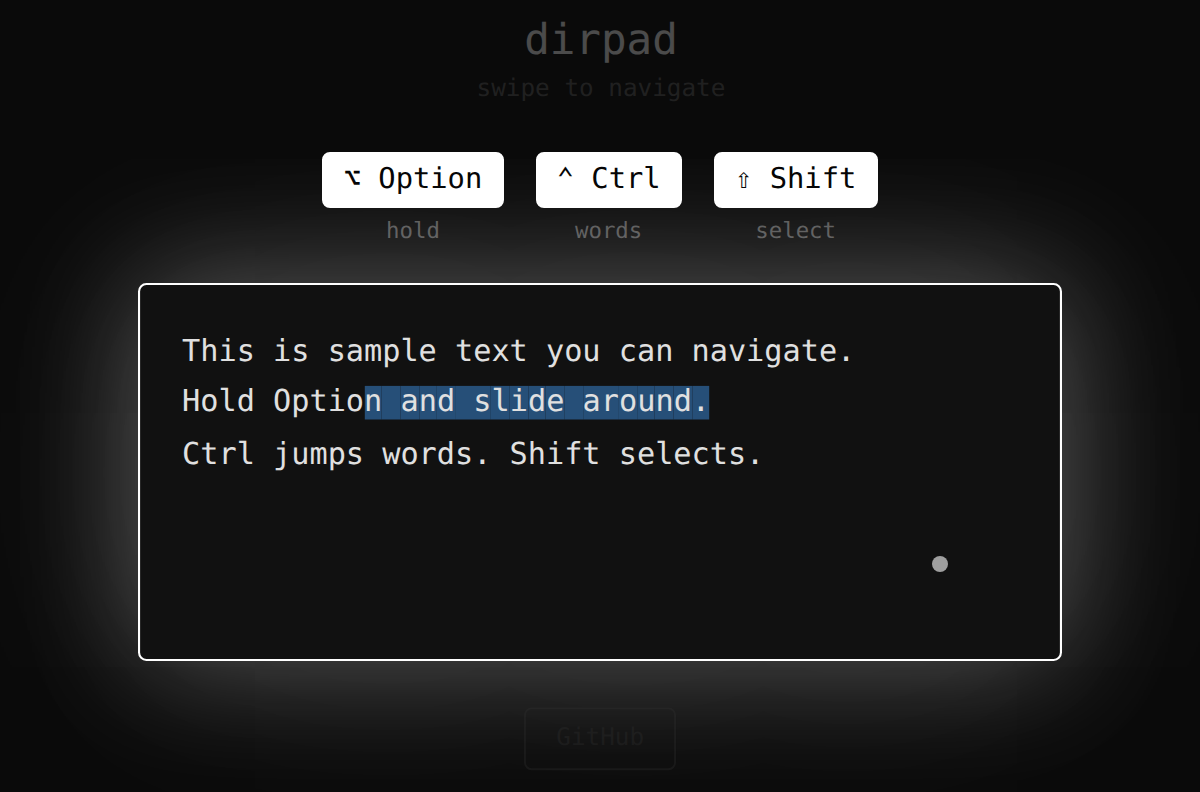
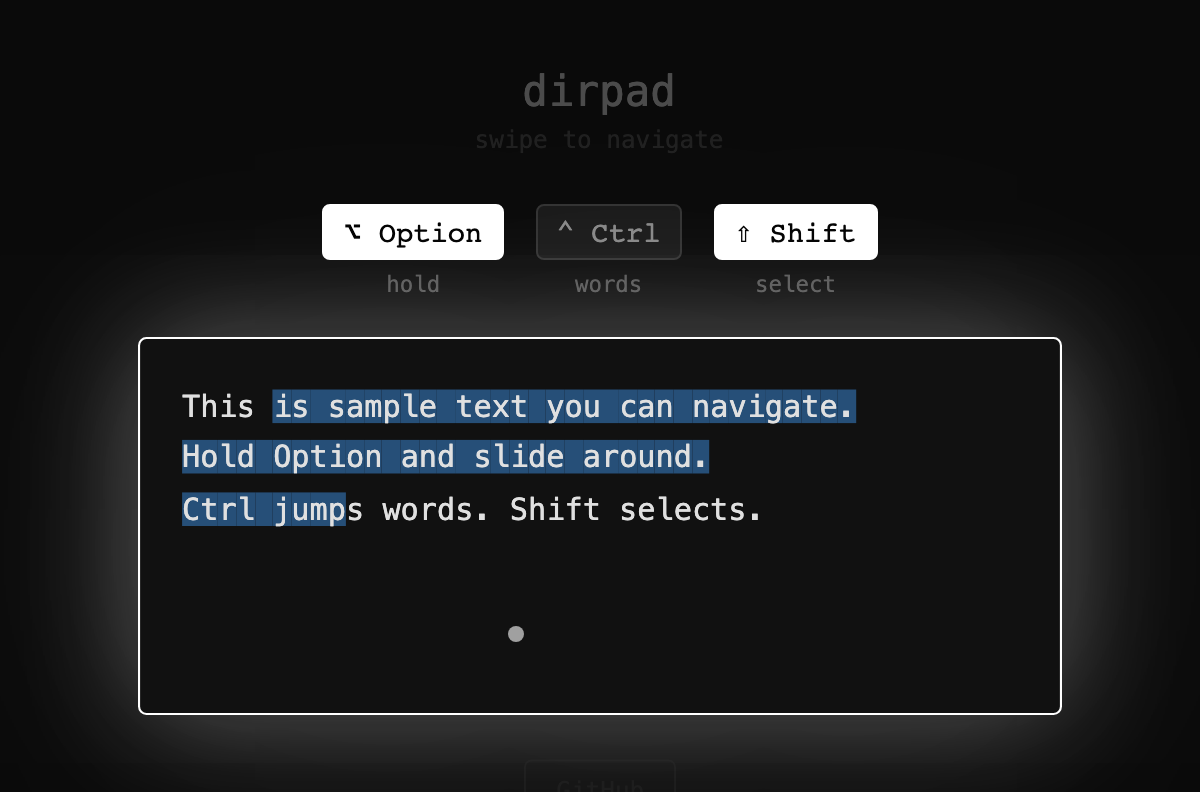
dirpad screens

diff --git a/contents/about/items/dirpad/_.md b/contents/about/items/dirpad/_.md
@@ -18,6 +18,6 @@ DIAGRAM: diagram.svg "Hold Option and slide: the list moves a step at a time, an
 
 ## Screens
 
-![Dark page titled dirpad with Option, Ctrl and Shift keys; Option is lit and a text cursor sits mid-line in a glowing box](screen-1.png "Demo page: hold Option and the pointer steers the text cursor")
+![Two demo frames stacked, pointer at the same spot in both. Option only: caret after 'This i'. Option plus Ctrl: caret after 'you can'](screen-1.png "Demo page: the same slide moves six letters with Option, six words with Ctrl added")
 
-![The same page with all three keys lit and the words "and slide around." highlighted as a selection](screen-2.png "Demo page: add Ctrl and Shift and the same slide selects word by word")
+![Dirpad demo with Option and Shift lit; a blue selection runs from 'is sample' on line one through 'Ctrl jump' on line three](screen-2.png "Demo page: add Shift and slide down to select across lines, a letter at a time")
